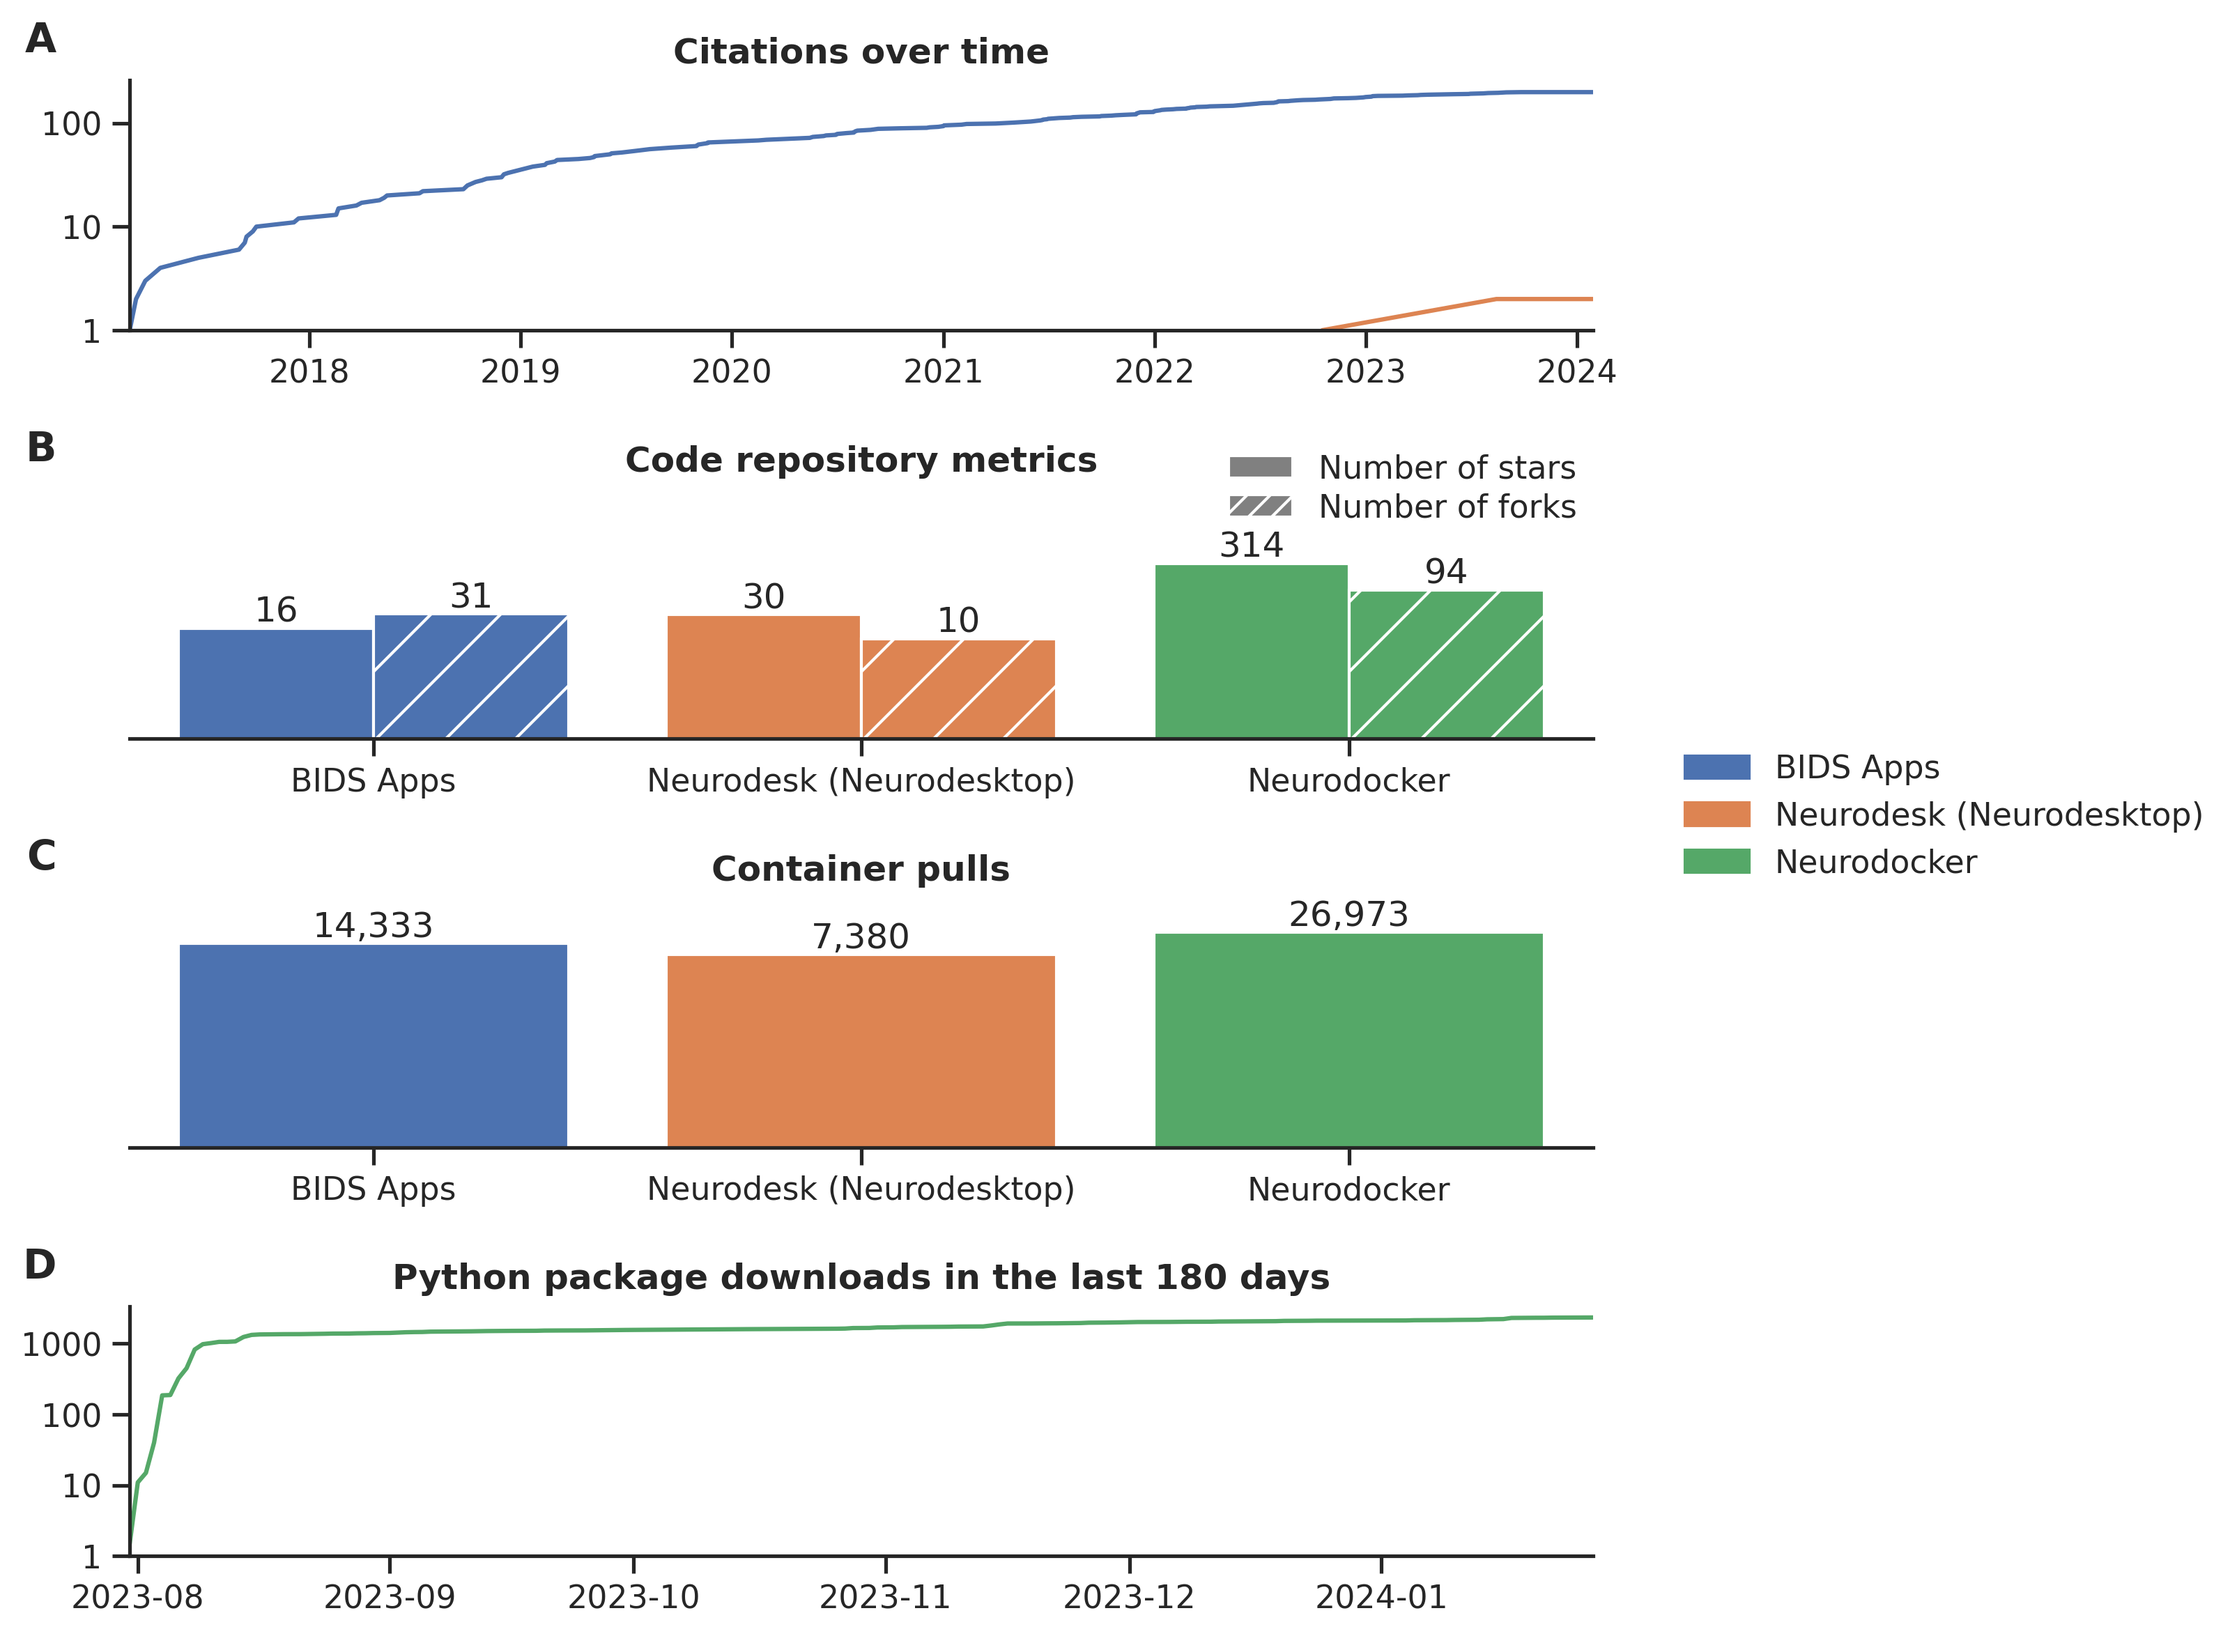
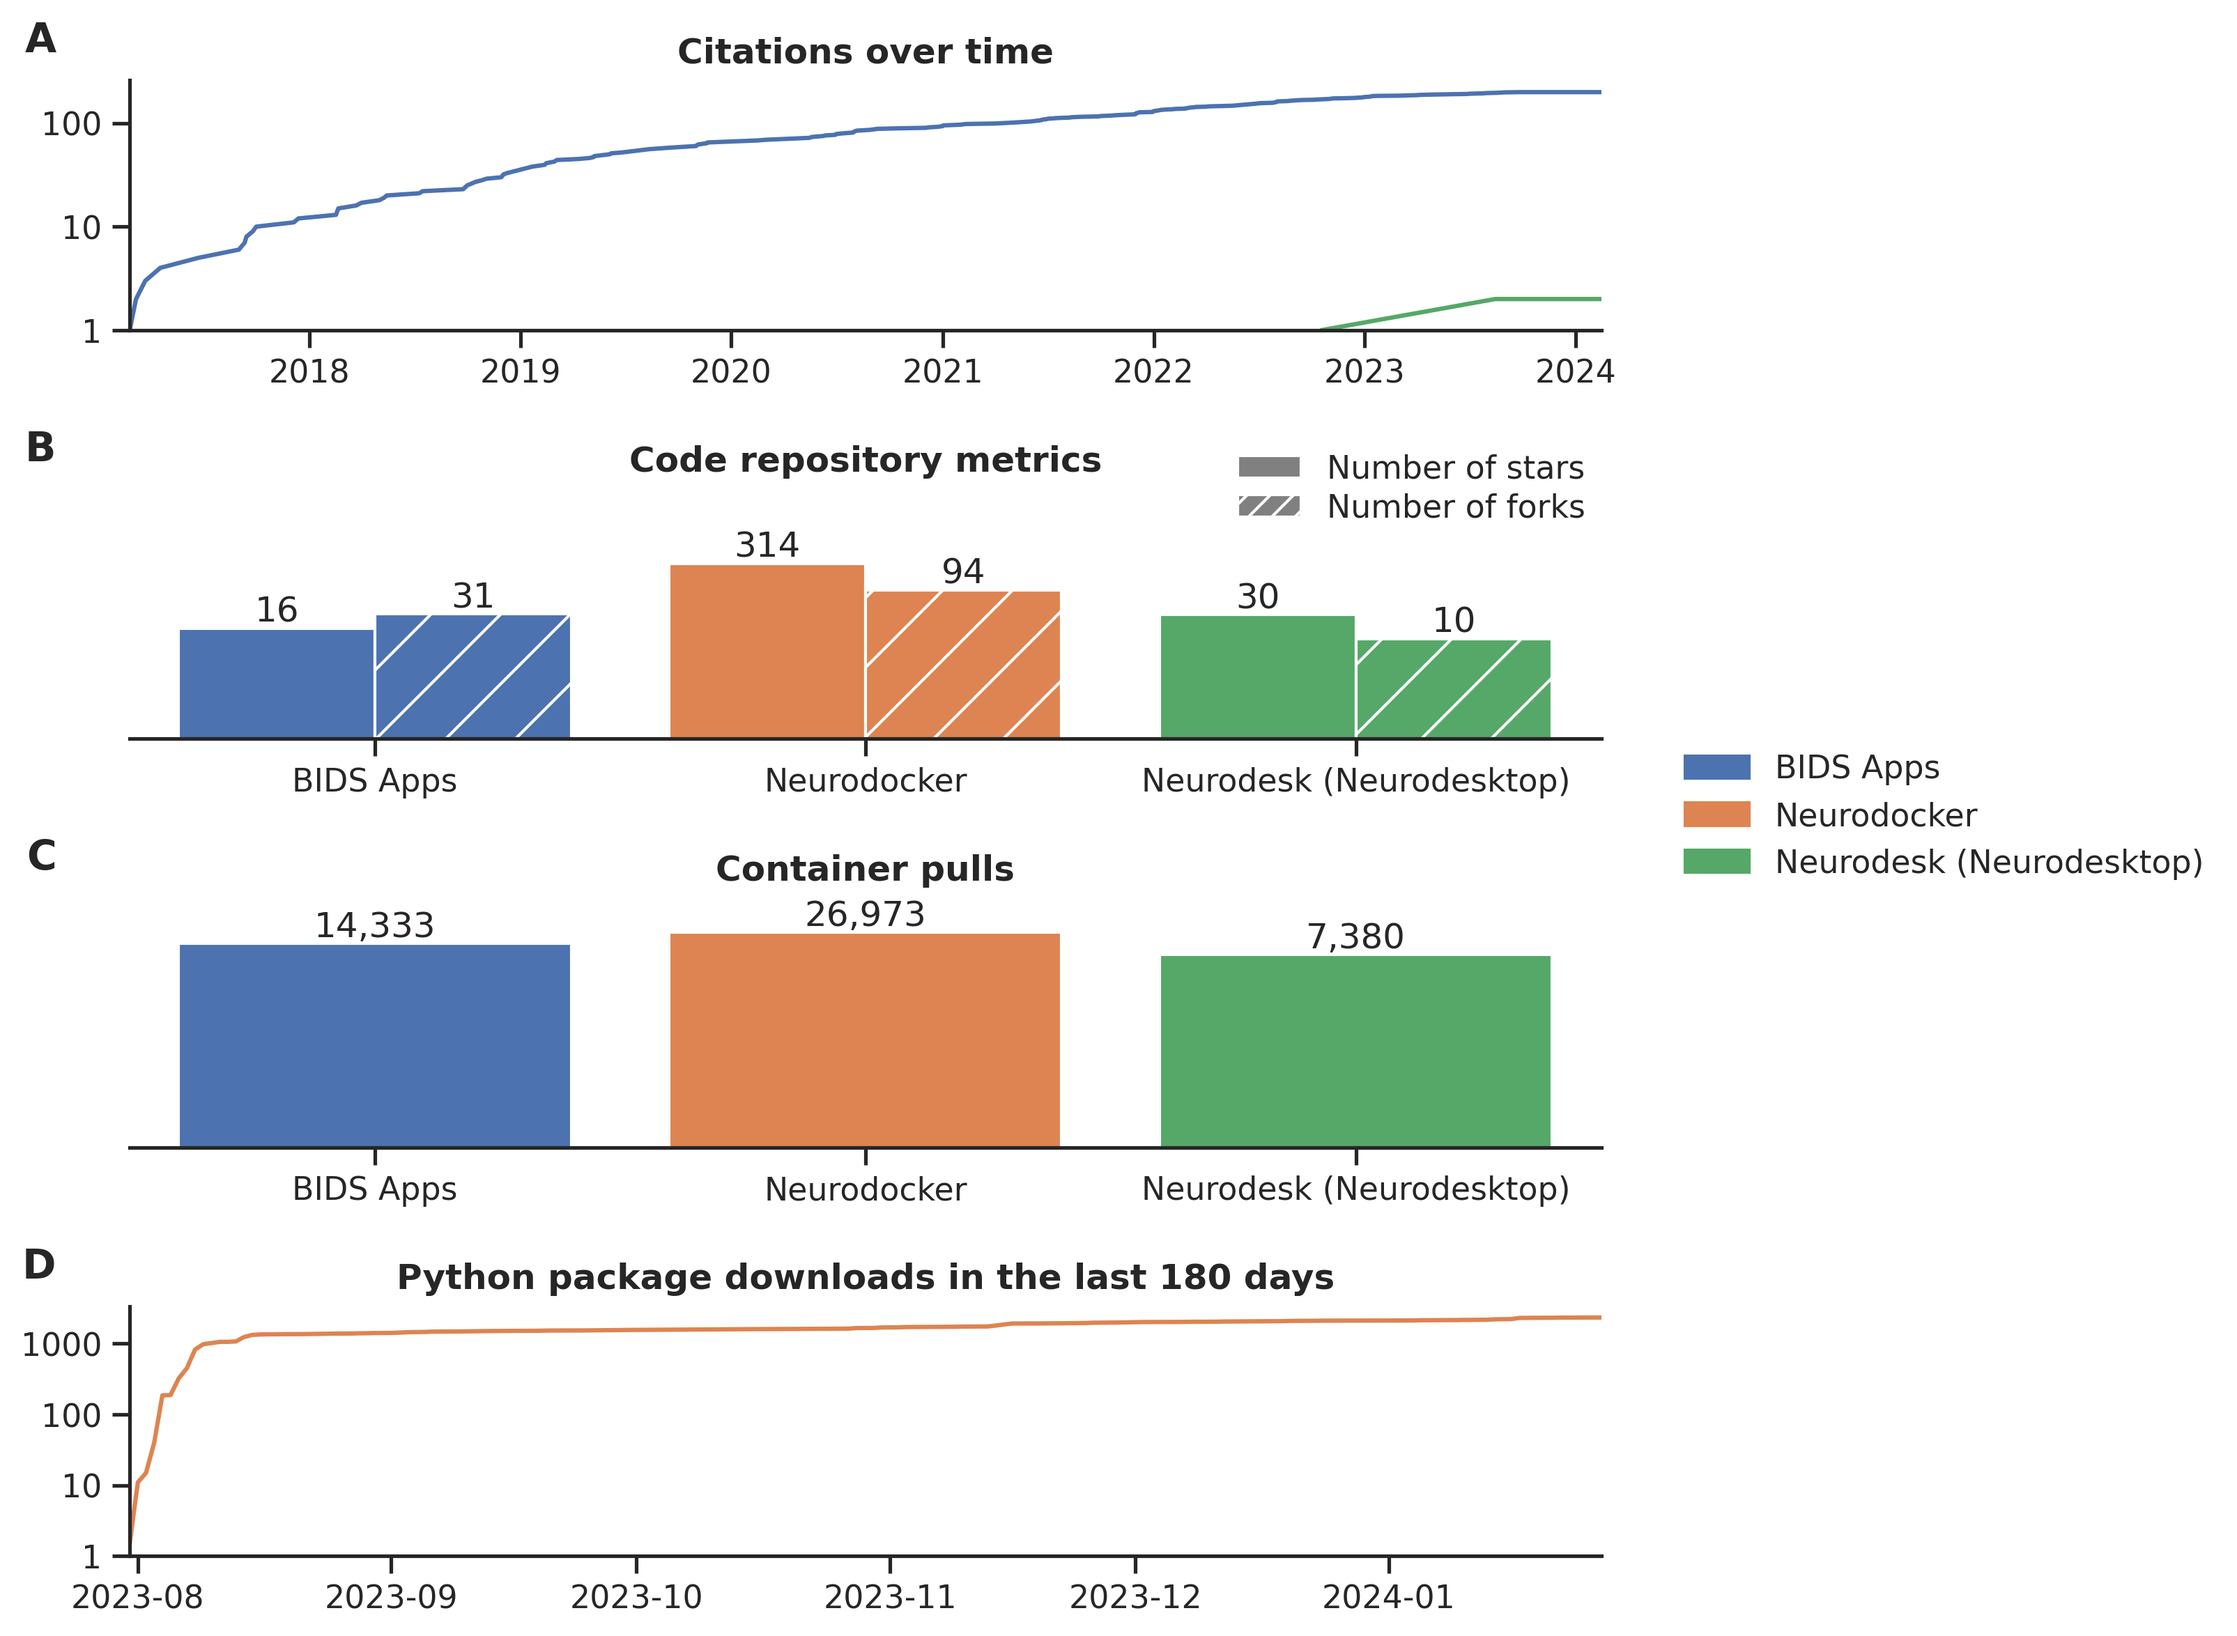
do not sort tools alphabetically

diff --git a/code/generate_figures.py b/code/generate_figures.py
@@ -265,7 +265,7 @@ def process_palette(df_metrics: pd.DataFrame, palette=None) -> Mapping[str, str]
     if palette is None:
         palette = {}
         for _, df_colors in df_metrics.groupby(COL_SECTION):
-            tools = df_colors[COL_NAME].sort_values()
+            tools = df_colors[COL_NAME]
             colors = sns.color_palette(n_colors=len(df_colors))
             palette.update({
                 tool: color
@@ -339,8 +339,6 @@ def generate_figures(
     # process palette
     palette = process_palette(df_metrics, palette=palette)
 
-    # sort tools
-    df_metrics = df_metrics.sort_values(COL_NAME)
 
     for section, df_metrics_section in df_metrics.groupby(COL_SECTION):
 
@@ -448,7 +446,7 @@ def generate_figures(
                 tool: {
                     'color': palette[tool]
                 }
-                for tool in df_metrics_section[COL_NAME].sort_values()
+                for tool in df_metrics_section[COL_NAME]
             },
             loc='center left',
             bbox_to_anchor=(1, 0.5),
